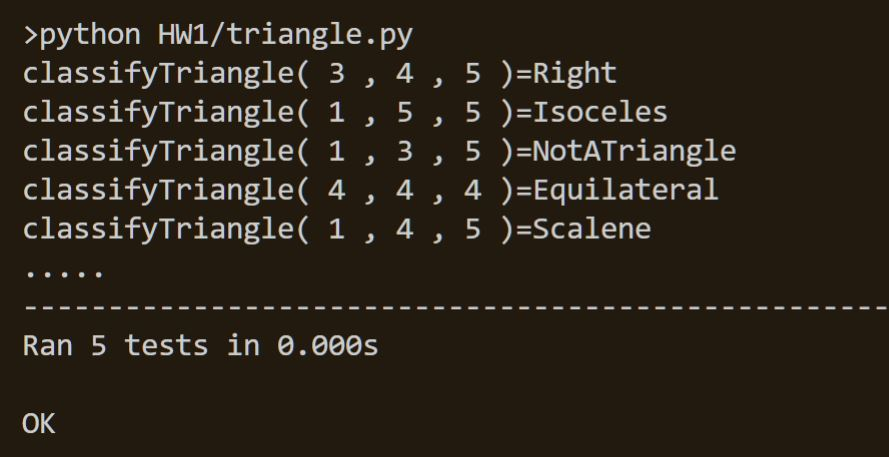
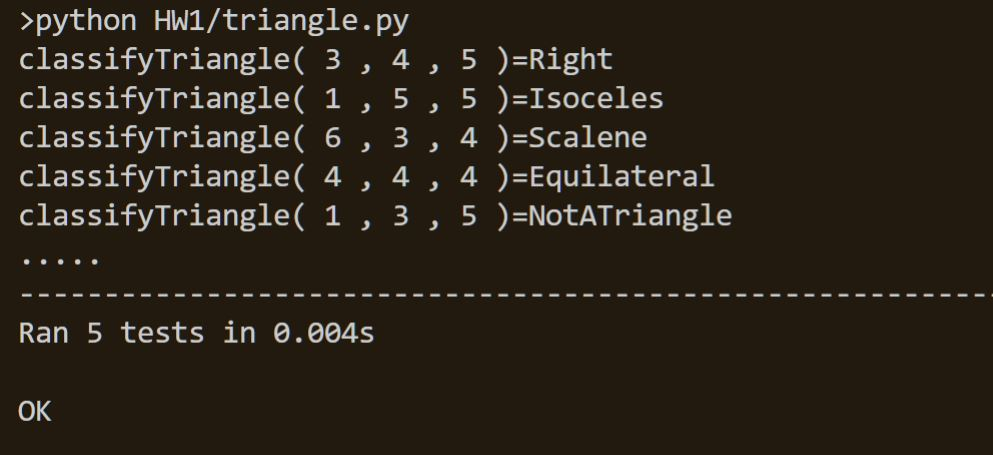
updates HW1

diff --git a/HW1/triangle.py b/HW1/triangle.py
@@ -1,7 +1,7 @@
 import unittest
 
 def classifyTriangle(a,b,c):
-    if a-b < c and b-c < a and c-a < b and min(a,b,c) > 0:
+    if a+b > c and b+c > a and a+c > b and min(a,b,c) > 0:
         if a == b == c :
             return "Equilateral"
         elif a == b or b == c or a == c:
@@ -20,7 +20,9 @@ def printClassifyTriangle(a,b,c):
 class TestTriangles(unittest.TestCase):
     def testNotATriangle(self):
         self.assertEqual(classifyTriangle(3,3,7), 'NotATriangle')
+        self.assertEqual(classifyTriangle(3,0,7), 'NotATriangle')
         self.assertNotEqual(classifyTriangle(3,3,3), "NotATriangle")
+
 
     def testEquilateral(self):  
         self.assertEqual(classifyTriangle(3,3,3), 'Equilateral')
@@ -42,9 +44,9 @@ if __name__ == '__main__':
 
     printClassifyTriangle(3,4,5)
     printClassifyTriangle(1,5,5)
-    printClassifyTriangle(1,3,5)
+    printClassifyTriangle(6,3,4)
     printClassifyTriangle(4,4,4)
-    printClassifyTriangle(1,4,5)
+    printClassifyTriangle(1,3,5)
 
 
     unittest.main(exit=True)
